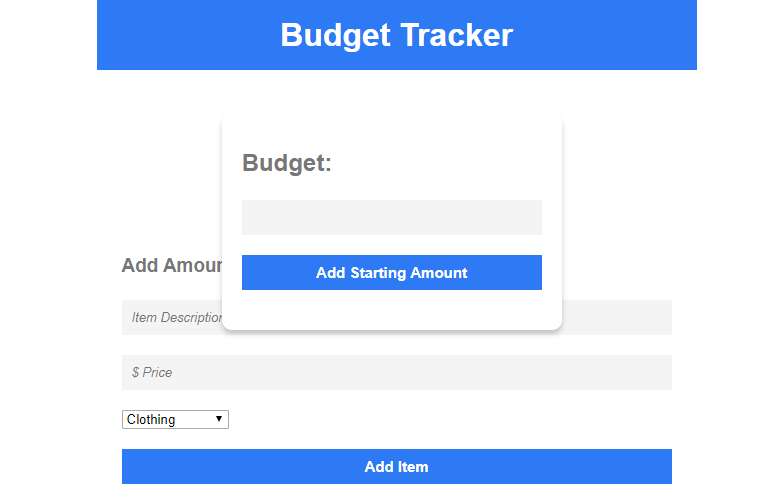
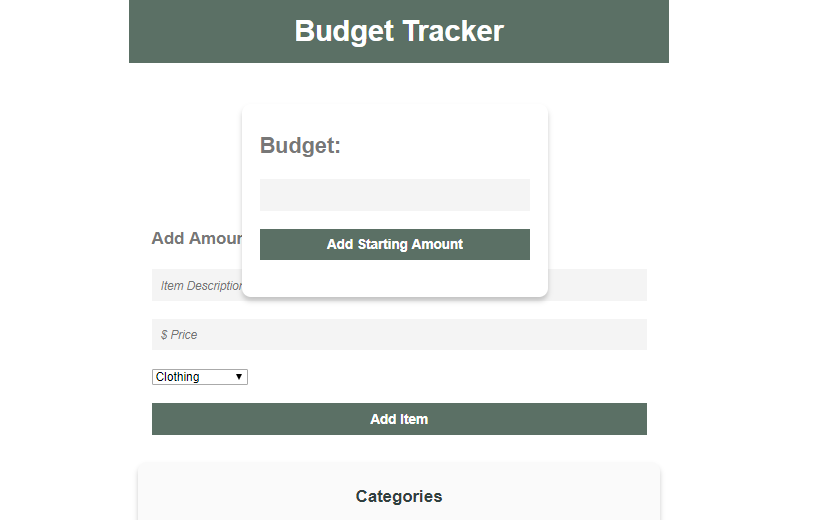
More front side card syling. Added coffee to footer

diff --git a/index.html b/index.html
@@ -44,10 +44,6 @@
           <a href="#contact" class="navigation__link">
             <span></span>Contact</a>
         </li>
-        <!-- <li class="navigation__item">
-                    <a href="#" class="navigation__link">
-                        <span>05</span>Book Now</a>
-                </li> -->
       </ul>
     </nav>
   </div>
@@ -112,9 +108,9 @@
             <div class="card__side card__side--back">
               <div class="card__details">
                 <ul>
-                  <li>AngularJS, HTML5, CSS3, Javascript</li>
+                  <li>AngularJS, Javascript</li>
+                  <li>HTML5, CSS3</li>
                   <li>Uses two API's</li>
-                  <li>&nbsp;</li>
                   <li>&nbsp;</li>
                 </ul>
               </div>
@@ -123,7 +119,12 @@
           </div>
           <div class="card">
             <div class="card__side card__side--front">
-
+              <div class="card__picture card__picture--4">
+                &nbsp;
+              </div>
+              <h4 class="card__heading">
+                <span class="card__heading-span card__heading-span">Budget Tracker</span>
+              </h4>
             </div>
             <div class="card__side card__side--back">
               <div class="card__details">
@@ -171,13 +172,34 @@
             <div class="card__side card__side--back">
               <div class="card__details">
                 <ul>
-                  <li> HTML5, CSS3, Javascript</li>
-                  <li>&nbsp;</li>
+                  <li>Javascript</li>
+                  <li>HTML5, CSS3</li>
                   <li>&nbsp;</li>
                   <li>&nbsp;</li>
                 </ul>
               </div>
-              <a href="#" target="_blank" class="btn btn--white">Go now!</a>
+              <a href="http://turn-based-game.s3-website.us-east-2.amazonaws.com/" target="_blank" class="btn btn--white">Go now!</a>
+            </div>
+          </div>
+          <div class="card">
+            <div class="card__side card__side--front">
+              <div class="card__picture card__picture--5">
+                &nbsp;
+              </div>
+              <h4 class="card__heading">
+                <span class="card__heading-span card__heading-span">ToDo List</span>
+              </h4>
+            </div>
+            <div class="card__side card__side--back">
+              <div class="card__details">
+                <ul>
+                  <li>AngularJS, Javascript</li>
+                  <li> HTML5, CSS3, </li>
+                  <li>&nbsp;</li>
+                  <li>&nbsp;</li>
+                </ul>
+              </div>
+              <a href="http://angularjs-todo-list.s3-website.us-east-2.amazonaws.com/#!/" target="_blank" class="btn btn--white">Go now!</a>
             </div>
           </div>
           <div class="card">
@@ -187,24 +209,8 @@
             <div class="card__side card__side--back">
               <div class="card__details">
                 <ul>
-                  <li> HTML5, CSS3, Javascript</li>
-                  <li>&nbsp;</li>
-                  <li>&nbsp;</li>
-                  <li>&nbsp;</li>
-                </ul>
-              </div>
-              <a href="#" target="_blank" class="btn btn--white">Go now!</a>
-            </div>
-          </div>
-          <div class="card">
-            <div class="card__side card__side--front">
-
-            </div>
-            <div class="card__side card__side--back">
-              <div class="card__details">
-                <ul>
-                  <li> HTML5, CSS3, Javascript</li>
-                  <li>&nbsp;</li>
+                  <li> Javascript</li>
+                  <li> HTML5, CSS3</li>
                   <li>&nbsp;</li>
                   <li>&nbsp;</li>
                 </ul>
@@ -230,9 +236,9 @@
             <div class="card__side card__side--back">
               <div class="card__details">
                 <ul>
-                  <li> HTML5, CSS3, Javascript</li>
-                  <li>&nbsp;</li>
-                  <li>&nbsp;</li>
+                  <li>Vue.js, Javascript</li>
+                  <li>HTML5, CSS3</li>
+                  <li>Bootstrap 4</li>
                   <li>&nbsp;</li>
                 </ul>
               </div>
@@ -241,18 +247,23 @@
           </div>
           <div class="card">
             <div class="card__side card__side--front">
-
+              <div class="card__picture card__picture--6">
+                &nbsp;
+              </div>
+              <h4 class="card__heading">
+                <span class="card__heading-span card__heading-span">Event Board</span>
+              </h4>
             </div>
             <div class="card__side card__side--back">
               <div class="card__details">
                 <ul>
-                  <li> HTML5, CSS3, Javascript</li>
-                  <li>&nbsp;</li>
-                  <li>&nbsp;</li>
+                  <li>Vue.js, Javascript</li>
+                  <li>HTML5, CSS3</li>
+                  <li>Bootstrap 4</li>
                   <li>&nbsp;</li>
                 </ul>
               </div>
-              <a href="#" target="_blank" class="btn btn--white">Go now!</a>
+              <a href="http://vue-event-list.s3-website.us-east-2.amazonaws.com/" target="_blank" class="btn btn--white">Go now!</a>
             </div>
           </div>
           <div class="card">
@@ -343,7 +354,7 @@
     </div>
 
     <footer class="footer">
-      <p>MADE WITH LOVE BY JAMES RILEY &copy; 2018 </p>
+      <p>MADE WITH <span>&#9749;</span> BY JAMES RILEY <span>&copy;</span> 2018 </p>
     </footer>
   </div>
 </body>

diff --git a/css/projects-style.css b/css/projects-style.css
@@ -166,7 +166,7 @@ h2 {
  }
 
 .card__picture {
-    background-size: cover;
+    background-size: contain;
     height: 23rem;
     /* background-blend-mode: overlay; */
     background-repeat: no-repeat;
@@ -183,6 +183,12 @@ h2 {
   background-image: url(/img/turn-based-game.png); }
 .card__picture--3 {
   background-image: url(/img/vue-item-list.PNG); }
+.card__picture--4 {
+  background-image: url(/img/budget-app.png); }
+.card__picture--5 {
+  background-image: url(/img/todo-list.png); }
+.card__picture--6 {
+  background-image: url(/img/vue-bootstrap-event-board.png); }
 .card__heading {
   font-size: 2rem;
   font-weight: 300;

diff --git a/css/about-style.css b/css/about-style.css
@@ -245,5 +245,8 @@
   font-size: 2rem;
   color: #fff;
   margin-top: 1.2rem;
-  
+}
+
+.footer>p>span {
+  color: #9b4f0f;
 }
